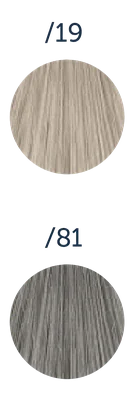
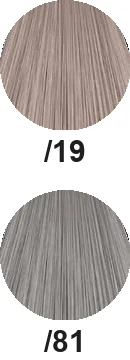
Color Tune: чинит overflow фото-пар на мобильном, компактные свотчи
- Реальный горизонтальный overflow на телефоне (найдено пользователем
  вживую): .photo-pair img использовал flex:1 + width:50%, но без
  min-width:0 flex-элемент не сжимается ниже своего природного
  размера — тот же баг, что уже чинили на главной странице. Фото
  "до/после" физически раздвигали страницу шире экрана.
- Свотчи оттенков между фото пересобраны компактно из реальных фото
  (shades/*.webp) с круглой маской и подписью кода — /69 и /19+/81
  теперь одного размера круга. /19+/81 сделаны вертикальным стеком
  (не бок о бок) — широкая версия слишком сжимала фото моделей
  на мобильном.
- Заголовок первого примера — "(покрытие +/69)" для единообразия
  со вторым "(покрытие +/19 +/81)".

diff --git a/src/content/articles/2026-08-30-londa-color-tune.md b/src/content/articles/2026-08-30-londa-color-tune.md
@@ -128,7 +128,7 @@ verifiedDate: 2026-08-30
   <div class="combo-card"><img src="/images/articles/2026-08-30-londa-color-tune/combo-dymchato-lilovyi.webp" alt="" /><span class="combo-name">Дымчато-лиловый</span><span class="combo-formula">/81 + /06 · 1:3</span></div>
 </div>
 
-## Пример: контрастный Money Piece (с /69)
+## Пример: контрастный Money Piece (покрытие +/69)
 
 Контрастный вариант окрашивания Money Piece обрамляет лицо модели и дополнен лёгкими бликами в технике балаяж по длине и концам волос. Сервис экспресс-тонирования идеален для коррекции окрашивания блонд, изменения оттенка или придания оттенка осветлённым волосам — и отлично сочетается с этой техникой.
 
